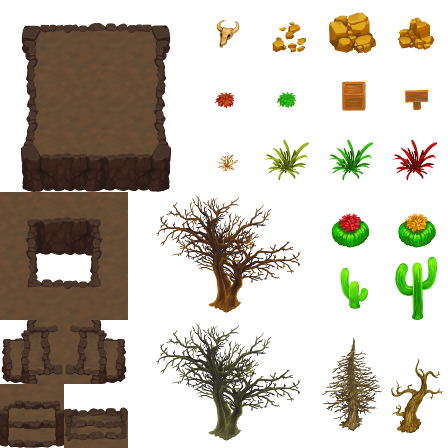
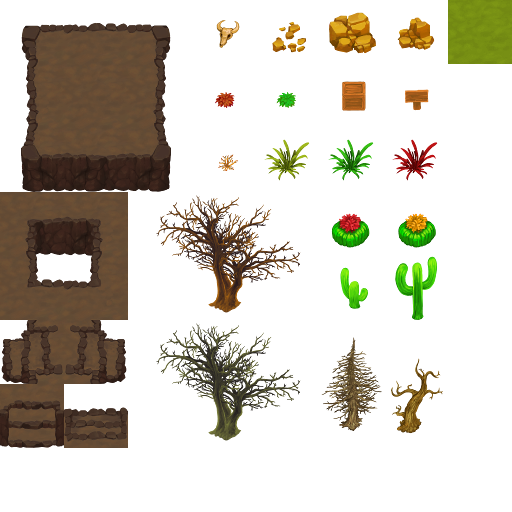
more map stsuff

diff --git a/src/gamemap.cpp b/src/gamemap.cpp
@@ -44,8 +44,8 @@ void GameMap::LoadMap(const std::string &path)
 
     // Load tileset information from JSON
     int firstgid = 1;
-    int tilesetRows = 14;
-    int tilesetCols = 14;
+    int tilesetRows = 16;
+    int tilesetCols = 16;
     
     if (j.contains("tilesets") && !j["tilesets"].empty()) {
         firstgid = j["tilesets"][0]["firstgid"];
@@ -123,122 +123,3 @@ void GameMap::LoadMap(const std::string &path)
         }
     }
 }
-
-void GameMap::LoadMapWithLayers(const std::string &path)
-{
-    std::ifstream i(path);
-    json j;
-    i >> j;
-
-    int w = j["width"];
-    int h = j["height"];
-    int tilewidth = j["tilewidth"];
-    int tileheight = j["tileheight"];
-
-    mapWidth = w * tilewidth;
-    mapHeight = h * tileheight;
-
-    // Clear existing layers
-    layers.clear();
-
-    // Load tileset information from JSON
-    int firstgid = 1;
-    int tilesetRows = 14;
-    int tilesetCols = 14;
-    
-    if (j.contains("tilesets") && !j["tilesets"].empty()) {
-        firstgid = j["tilesets"][0]["firstgid"];
-    }
-
-    SDL_Texture* tilesetTexture = TextureManager::loadTexture("assets/maptiles.png");
-
-    // Process all layers and store layer information
-    if (j.contains("layers")) {
-        for (const auto& layerJson : j["layers"]) {
-            MapLayer layer;
-            layer.name = layerJson.contains("name") ? layerJson["name"] : "Unnamed";
-            layer.id = layerJson.contains("id") ? layerJson["id"] : 0;
-            layer.visible = layerJson.contains("visible") ? layerJson["visible"] : true;
-            layer.opacity = layerJson.contains("opacity") ? layerJson["opacity"] : 1.0f;
-            layer.type = layerJson.contains("type") ? layerJson["type"] : "unknown";
-            layer.width = layerJson.contains("width") ? layerJson["width"] : w;
-            layer.height = layerJson.contains("height") ? layerJson["height"] : h;
-            layer.offsetX = layerJson.contains("x") ? layerJson["x"] : 0;
-            layer.offsetY = layerJson.contains("y") ? layerJson["y"] : 0;
-
-            // Store layer data for tile layers
-            if (layer.type == "tilelayer" && layerJson.contains("data")) {
-                layer.data.clear();
-                for (const auto& tileId : layerJson["data"]) {
-                    layer.data.push_back(tileId);
-                }
-            }
-
-            layers.push_back(layer);
-
-            // Skip non-tile layers for rendering
-            if (layer.type != "tilelayer") {
-                std::cout << "Skipping non-tile layer: " << layer.name << " (type: " << layer.type << ")" << std::endl;
-                continue;
-            }
-            
-            // Skip invisible layers
-            if (!layer.visible) {
-                std::cout << "Skipping invisible layer: " << layer.name << std::endl;
-                continue;
-            }
-            
-            std::cout << "Processing layer: " << layer.name << " (id: " << layer.id << ", opacity: " << layer.opacity << ")" << std::endl;
-            
-            // Process tiles in this layer
-            for(int y = 0; y < layer.height; y++) {
-                for(int x = 0; x < layer.width; x++) {
-                    unsigned int tileid = layer.data[y * layer.width + x];
-                    
-                    // Skip empty tiles (tileid 0)
-                    if (tileid == 0) {
-                        continue;
-                    }
-
-                    // Read out the flags
-                    bool flipped_horizontally = (tileid & FLIPPED_HORIZONTALLY_FLAG);
-                    bool flipped_vertically = (tileid & FLIPPED_VERTICALLY_FLAG);
-                    bool flipped_diagonally = (tileid & FLIPPED_DIAGONALLY_FLAG);
-
-                    uint32_t flip = SDL_FLIP_NONE;
-
-                    if(flipped_horizontally)
-                        flip |= SDL_FLIP_HORIZONTAL;
-
-                    if(flipped_vertically)
-                        flip |= SDL_FLIP_VERTICAL;
-
-                    if(flipped_diagonally)
-                        flip |= SDL_FLIP_VERTICAL | SDL_FLIP_HORIZONTAL;
-
-                    // Clear the flags
-                    tileid &= ~(FLIPPED_HORIZONTALLY_FLAG | FLIPPED_VERTICALLY_FLAG | FLIPPED_DIAGONALLY_FLAG);
-
-                    // Calculate source rectangle in tileset
-                    SDL_Rect src;
-                    src.y = (static_cast<int>((tileid - firstgid) / tilesetRows)) * tileheight;
-                    src.x = ((tileid - firstgid) % tilesetCols) * tilewidth;
-                    src.w = tilewidth;
-                    src.h = tileheight;
-
-                    // Calculate destination rectangle on screen
-                    SDL_Rect dst;
-                    dst.x = (x * tilewidth) + layer.offsetX;
-                    dst.y = (y * tileheight) + layer.offsetY;
-                    dst.w = tilewidth;
-                    dst.h = tileheight;
-
-                    Game::addTile(tilesetTexture, src, dst, (SDL_RendererFlip)flip);
-                }
-            }
-        }
-    }
-
-    std::cout << "Loaded " << layers.size() << " layers from map: " << path << std::endl;
-}
-

diff --git a/src/gamemap.h b/src/gamemap.h
@@ -37,7 +37,6 @@ public:
     static std::vector<MapLayer> layers;
 
     static void LoadMap(const std::string& path);
-    static void LoadMapWithLayers(const std::string& path);
 
 private:
 
